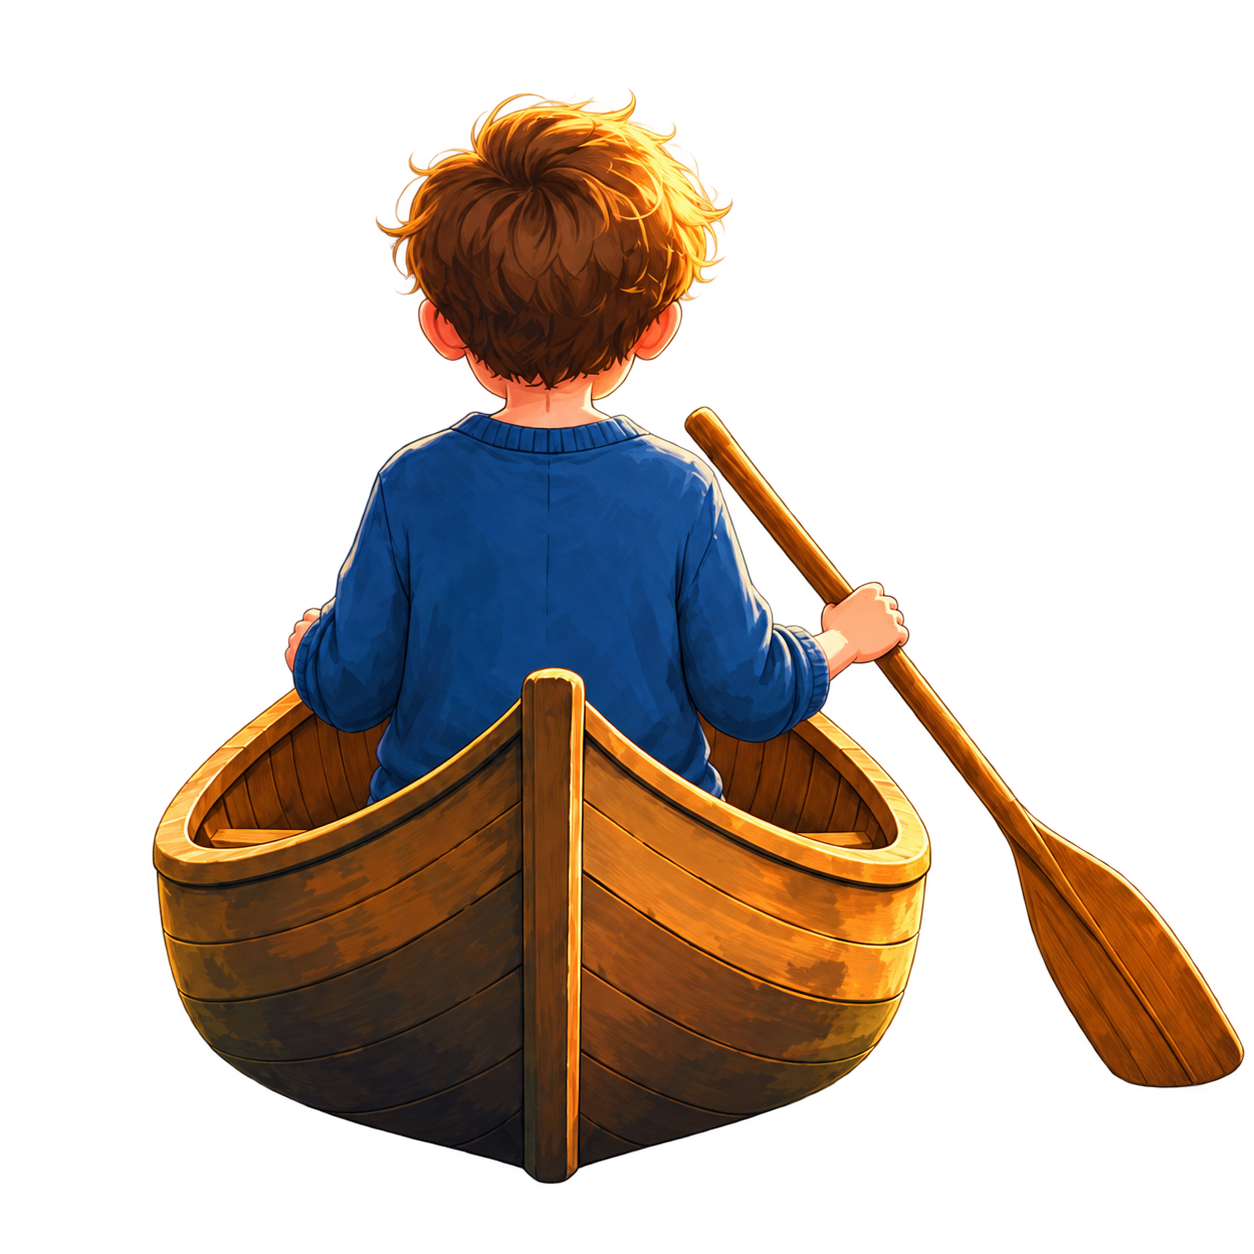
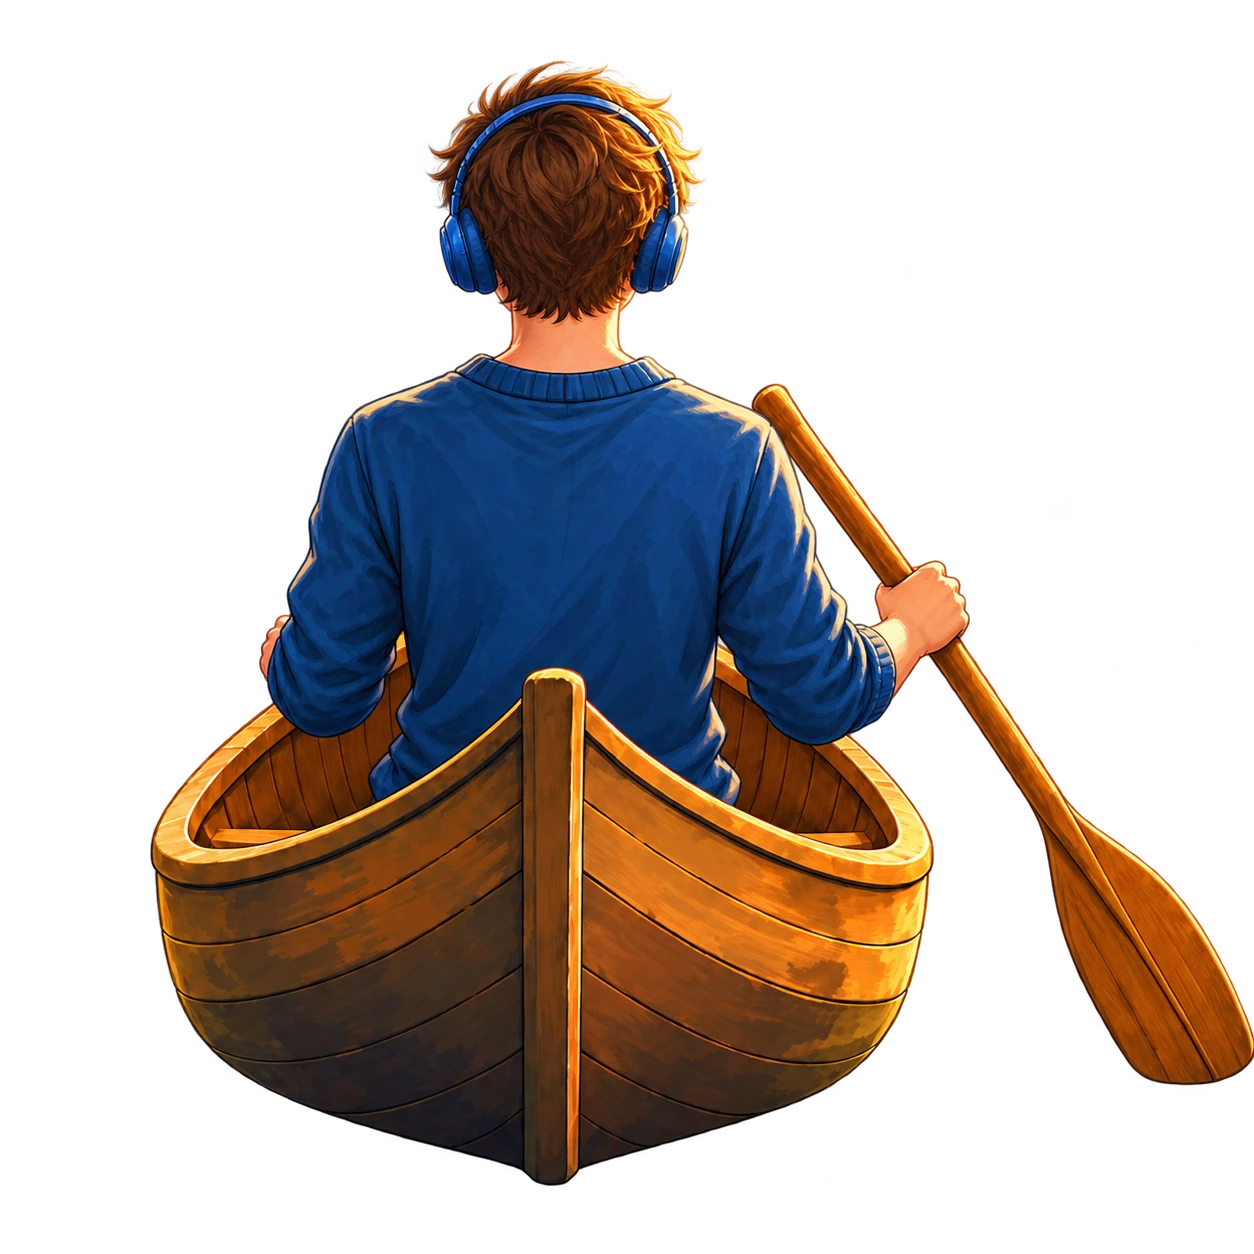
feat(hero): nuevo explorador con audífonos en la canoa

diff --git a/data/copy.ts b/data/copy.ts
@@ -19,7 +19,7 @@ export const COPY = {
     secondaryCta: "Ver proyectos",
     scrollHint: "ENTRAR",
     dinoAlt: "Dinosaurio gigante de cuello largo mirando hacia abajo",
-    canoeAlt: "Niño remando en una canoa de madera",
+    canoeAlt: "Explorador con audífonos remando en una canoa de madera",
   },
   about: {
     eyebrow: "SOBRE MÍ",
